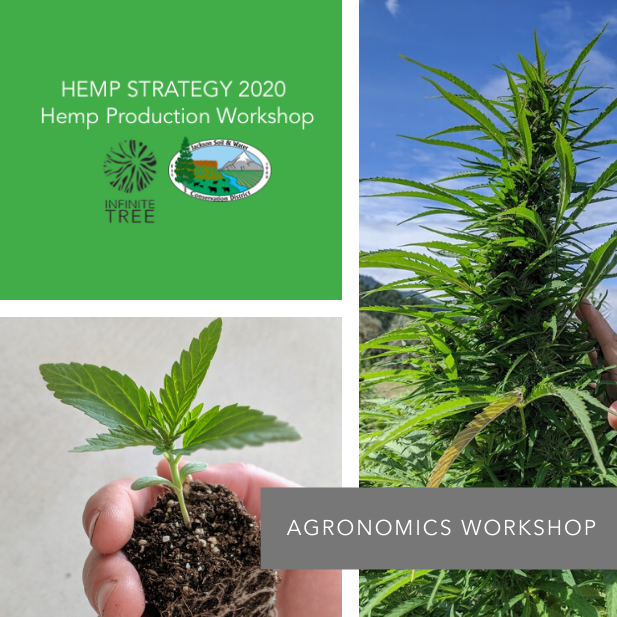
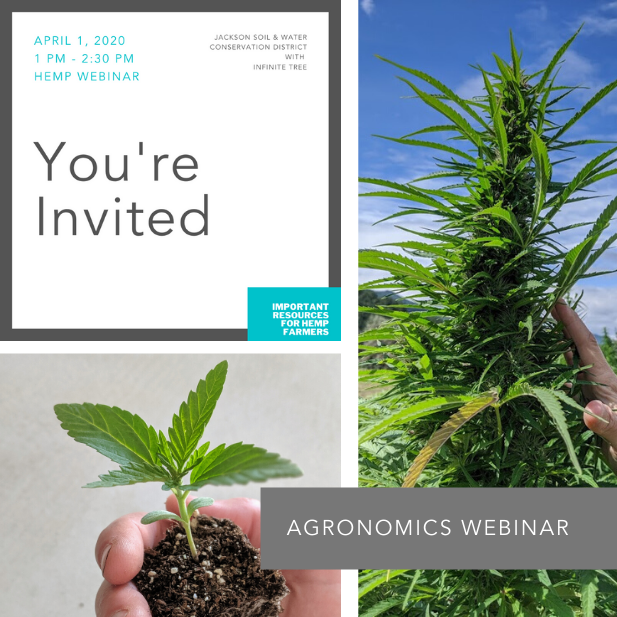
updated joint workshop page

diff --git a/event_april1.html b/event_april1.html
@@ -90,8 +90,9 @@ ni	<meta property="og:description" content="#Forage, Crop & Plant Education Seri
 						<li><a href="mailto:hello@infinite-tree.com" target="_blank"><i class="fa fa-envelope"></i></a></li>
 					</ul> -->
 				</header>
-				
-				
+				<figure class="figure">
+					<img src="assets/img/webinarinvite.png" alt="img"/>
+				</figure>
 			</div>
 		</article>
     </div>
@@ -124,6 +125,11 @@ ni	<meta property="og:description" content="#Forage, Crop & Plant Education Seri
 				<br>
 				Meghan Montgomery; Agricultural Resource Conservationist, JSWCD  
 				</p>
+				<br>
+				<p><i> Access Best-in-Class Hemp</p><i>
+				We are very proud to provide hemp cultivars that were grown nationally, and throughout Oregon, with great success in 2019. To download your copy of our catalog, please
+				<a href="https://infinite-tree.com/order-now.html" target="_blank"> inquire here </a>
+				</p> 
 				<br>
 				
 				<h2 class="heading3">Please Register to Receive Your Webinar Invite</h2>

diff --git a/articles.html b/articles.html
@@ -103,7 +103,7 @@
 							</a>
 						</li>
 						<li class="col-md-4" data-tag="events">
-							<a href="hempworkshop3.html">
+							<a href="event_april1.html">
 								<figure class="figure">
 									<img src="assets/img/workshop3.png" alt="img"/>
 									<figcaption>
@@ -217,7 +217,7 @@
 									<figcaption>
 										<h3> Hemp Strategy 2020</h3>
 										<br>
-										<p> Learn more about the best practices for growing hemp and develope a comprehensive strategy. Check in to see how to attend our next workshop in-person or online.
+										<p> Learn more about the best practices for growing hemp and develop a comprehensive strategy. Check in to see how to attend our next workshop in-person or online.
 
 											<br>
 							

diff --git a/hempworkshop3.html b/hempworkshop3.html
@@ -89,6 +89,9 @@
 						<li><a href="mailto:hello@infinite-tree.com" target="_blank"><i class="fa fa-envelope"></i></a></li>
 					</ul>
 				</header>
+				<figure class="figure">
+					<img src="assets/img/webinarinvite.jpg" alt="img"/>
+				</figure>
 
 				<p> Workshop Overview </p>
 				<br>
